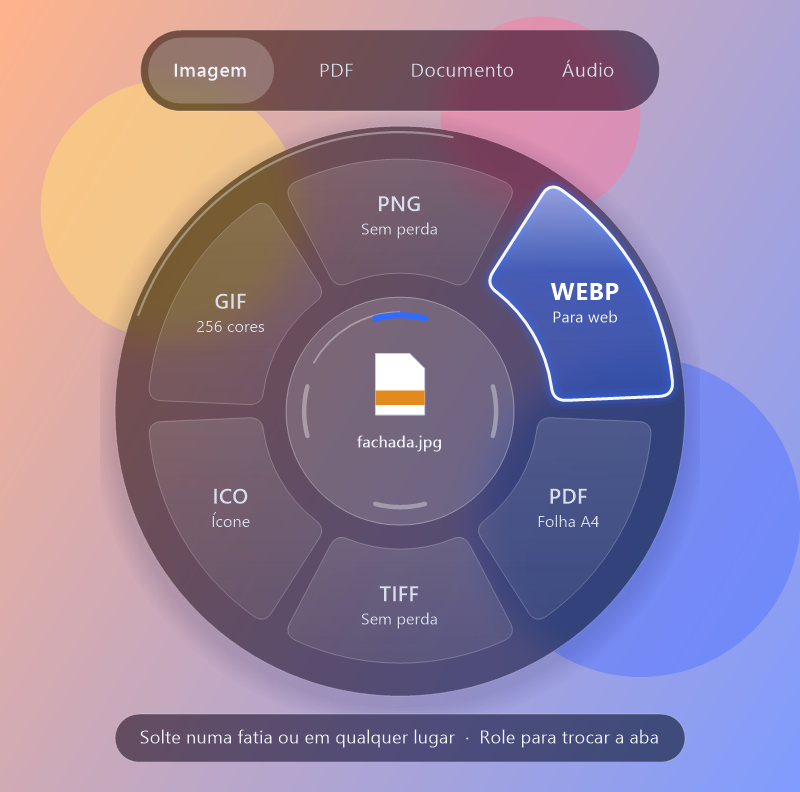
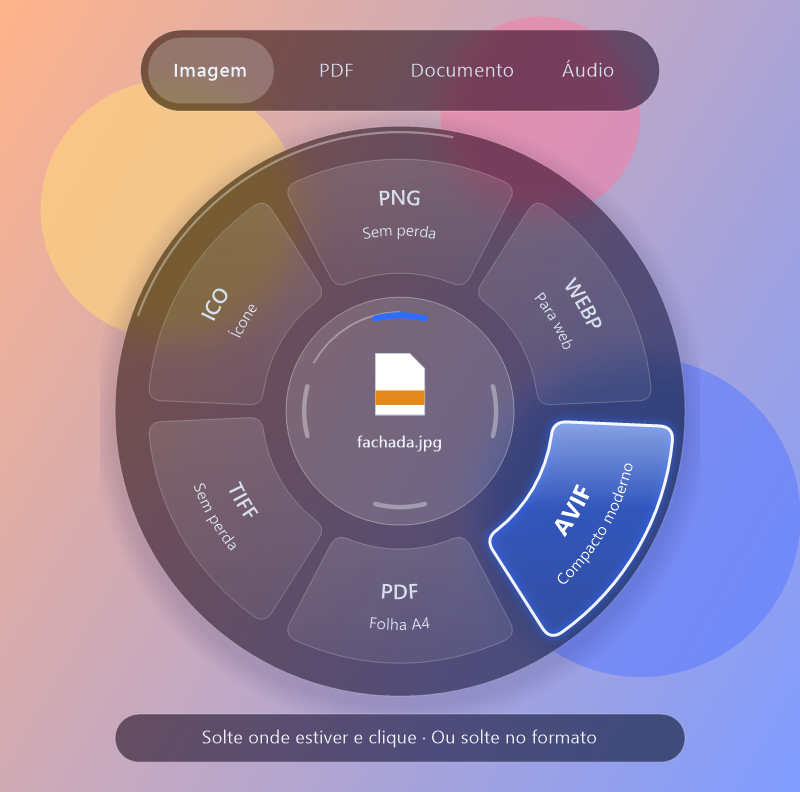
docs: uma página do Dossiê, ideias descartadas e menu atual no README (#35)
* docs: uma página do Dossiê, ideias descartadas e menu atual no README

- docs/design/README.md e docs/dossie/README.md falavam do mesmo
  Dossiê: fica só docs/dossie, com o link do Claude Design.
- docs/ideias-descartadas reúne o que saiu do projeto e por quê, com
  link para o ADR; os ADRs ficam onde estão.
- docs/imagens/menu.png, que não era usada e mostrava o texto reto,
  vira uma captura do menu com o texto curvo, no README.
- Pranchas: texto das fatias decidido (B) e WF-2 com o pulso sem ✓.

* docs: pulso no vidro translúcido na WF-2 e nas ideias descartadas

---------

diff --git a/docs/ideias-descartadas/README.md b/docs/ideias-descartadas/README.md
@@ -1,0 +1,48 @@
+# Ideias descartadas
+
+O que ficou pelo caminho, e por quê. Serve para não voltar a discutir o que já foi decidido e para entender por que o Pizza é como é. O registro completo de cada decisão continua no ADR indicado; os ADRs não saem de [`docs/adr`](../adr/), para que os links antigos sigam funcionando.
+
+Para reabrir uma ideia, crie um ADR novo que substitui o anterior (veja [`docs/adr/README.md`](../adr/README.md)).
+
+## Produto
+
+| Ideia | Por que saiu | Onde |
+| --- | --- | --- |
+| Repositório privado até o v1.0 | O Pizza passou a ser gratuito e de código aberto | [ADR-013](../adr/013-repositorio-privado.md) → [ADR-014](../adr/014-gratuito-gpl.md) |
+| Versão paga, com chave e plano | Gratuito sob GPL-3.0; a aba "Licença" saiu da Configuração | [ADR-014](../adr/014-gratuito-gpl.md) |
+| 15 políticas de TI no v1 | Ficam 7, as essenciais | [ADR-019](../adr/019-simplificacoes-do-v1.md) |
+| Opções "Mostrar dica" e "Cor de destaque" | Extras de interface que ninguém pediu | [ADR-019](../adr/019-simplificacoes-do-v1.md) |
+| "Pausar por 1 hora" e "Sobre" no menu do ícone | Pausar o gesto reverteria uma simplificação; Sobre vai para a Configuração | [ADR-020](../adr/020-menu-do-icone.md) |
+
+## Gesto e menu
+
+| Ideia | Por que saiu | Onde |
+| --- | --- | --- |
+| Hook de teclado para o Esc | Nenhuma captura de teclado (SEC-01); o Esc chega pelo próprio arraste ou pela janela do menu | [ADR-016](../adr/016-esc-sem-hook-de-teclado.md) |
+| Soltar fora do disco cancela | Soltar em qualquer lugar mantém o menu para escolher com um clique, sem precisar mirar | [ADR-025](../adr/025-escolha-por-clique-apos-o-gesto.md) |
+| Fechar a escolha em prazo fixo, ou só depois de 30 s | Fecharia enquanto a pessoa navega no touchpad, ou ocuparia demais uma tela pequena: o prazo é de 10 s sem interação | [ADR-025](../adr/025-escolha-por-clique-apos-o-gesto.md) |
+| Texto das fatias na horizontal com arco leve (versão A) | A descrição longa não cabia nas fatias laterais sem quebrar a linha; ficou a curva completa (B) | [Dossiê](../dossie/README.md#referência--texto-das-fatias) |
+| Marca ✓ na fatia escolhida | A fatia só fica em destaque, no mesmo vidro do hover; o ✓ aparece apenas no aviso de concluído | Pedido do mantenedor em 10/11/2026 |
+| Vidro fosco e escuro na fatia escolhida | Ficou escuro demais; voltou ao vidro translúcido do hover | Pedido do mantenedor em 10/11/2026 |
+
+## Visual
+
+| Ideia | Por que saiu | Onde |
+| --- | --- | --- |
+| Direct2D (Vortice) | Dependências novas, uma em beta | [ADR-023](../adr/023-vidro-gdiplus-desfoque-proprio.md) |
+| Acrylic do Windows (DWM) | Só funciona em janela ativa | [ADR-023](../adr/023-vidro-gdiplus-desfoque-proprio.md) |
+| Composição do Windows (`HostBackdropBrush`) | Desenhou preto na janela do disco | [ADR-023](../adr/023-vidro-gdiplus-desfoque-proprio.md) |
+| Vidro sem desfoque | O fundo nítido compete com as fatias | [ADR-023](../adr/023-vidro-gdiplus-desfoque-proprio.md) |
+| Avisos nativos do Windows (toasts) | Ficam no histórico e são espelhados no celular; viraram janelas próprias | [ADR-018](../adr/018-notificacao-e-painel-proprios.md) |
+
+## Arquitetura e segurança
+
+| Ideia | Por que saiu | Onde |
+| --- | --- | --- |
+| Converter documentos pelo Word (COM) | Arquivo da internet abriria fora do sandbox; no v1, só o LibreOffice isolado | [ADR-019](../adr/019-simplificacoes-do-v1.md) |
+| Worker aquecido e reaproveitado | Um arquivo malicioso alcançaria os próximos; agora é um Worker por arquivo | [ADR-019](../adr/019-simplificacoes-do-v1.md) |
+| Baixar o LibreOffice pelo Pizza | Nenhum download além da atualização | [ADR-019](../adr/019-simplificacoes-do-v1.md) |
+| Pipe com nome, ACL e verificação de PID | Pipes sem nome, entregues só ao Worker, são mais simples e fecham o acesso entre usuários | [ADR-021](../adr/021-pipe-sem-nome.md) |
+| Histórico do painel gravado em disco | Fica só em memória, durante a sessão | [ADR-018](../adr/018-notificacao-e-painel-proprios.md) |
+| PDFsharp para Imagem → PDF | Passou a ser AGPL na versão 6.5.0; o Pizza usa um gerador próprio | [ADR-022](../adr/022-imagem-pdf-gerador-proprio.md) |
+| SharpFuzz para os testes com arquivos corrompidos | Só observa código C#, e quem lê os arquivos é o libvips nativo; há um teste próprio | [SPECS §2.1](../SPECS.md) (TST-03) |

diff --git a/README.md b/README.md
@@ -14,7 +14,7 @@
 
 Conversor de imagens para Windows com menu circular, processamento local e arquivo original preservado.
 
-[Como usar](docs/USO.md) · [Dossiê e design](docs/design/README.md) · [Documentação](docs/README.md) · [Próximas etapas](docs/ROADMAP.md)
+[Como usar](docs/USO.md) · [Dossiê e design](docs/dossie/README.md) · [Documentação](docs/README.md) · [Próximas etapas](docs/ROADMAP.md)
 
 </div>
 
@@ -25,6 +25,8 @@ O Pizza abre um menu de formatos quando você começa a arrastar um arquivo segu
 O projeto está em **prévia de desenvolvimento**. Imagens e Imagem → PDF estão implementados. Operações em PDF, documentos e áudio fazem parte do roteiro. Instaladores assinados e atualização automática ainda não estão disponíveis.
 
 ## Como funciona
+
+<p align="center"><img src="docs/imagens/menu.png" alt="Menu do Pizza aberto sobre um arquivo JPG: abas Imagem, PDF, Documento e Áudio, e seis fatias de formato com o nome e a descrição acompanhando a curva; a fatia AVIF está em destaque" width="440"></p>
 
 1. Abra o Pizza; ele fica na bandeja do Windows.
 2. Segure **Ctrl** e comece a arrastar uma imagem no Explorer ou na área de trabalho.
@@ -102,9 +104,7 @@ Claude e Codex são as ferramentas de IA utilizadas na construção do projeto. 
 
 ## Dossiê e demonstração
 
-O [**Pizza — Dossiê do Projeto**, criado no Claude Design](https://claude.ai/artifact/LMrbTPnaY6EbVK1UPjcVDs#page-dcb81aee8d83), reúne a referência visual do projeto. A [documentação de design](docs/design/README.md) relaciona o artefato ao dossiê em Markdown e às decisões técnicas.
-
-As [pranchas do dossiê](docs/dossie/README.md) também estão disponíveis diretamente neste repositório.
+O [**Pizza — Dossiê do Projeto**, criado no Claude Design](https://claude.ai/artifact/LMrbTPnaY6EbVK1UPjcVDs#page-dcb81aee8d83), reúne a referência visual do projeto. As [pranchas do dossiê](docs/dossie/README.md) também estão neste repositório, sem precisar de login no Claude. O que foi descartado no caminho, e por quê, está em [ideias descartadas](docs/ideias-descartadas/README.md).
 
 Uma demonstração prática em vídeo está planejada e será adicionada quando estiver pronta.
 

diff --git a/docs/PIZZA-PROJETO.md b/docs/PIZZA-PROJETO.md
@@ -1,6 +1,6 @@
 # Pizza — Especificação completa do projeto
 
-> **Atualização — 10/11/2026:** este dossiê preserva o planejamento e decisões históricas. A implementação está em prévia de imagens, e o repositório já é público. Consulte o [roteiro atual](ROADMAP.md) e as emendas da [SPECS](SPECS.md). O gesto permite soltar em qualquer posição e escolher por clique (ADR-025). O [artefato original do Claude Design](design/README.md) está referenciado na documentação.
+> **Atualização — 10/11/2026:** este dossiê preserva o planejamento e decisões históricas. A implementação está em prévia de imagens, e o repositório já é público. Consulte o [roteiro atual](ROADMAP.md) e as emendas da [SPECS](SPECS.md). O gesto permite soltar em qualquer posição e escolher por clique (ADR-025). O [artefato original do Claude Design](dossie/README.md) está referenciado na documentação.
 
 > Conversor de arquivos para Windows que funciona no gesto: **segure Ctrl, arraste o arquivo e solte no formato** num menu circular de vidro. Tudo offline, leve e rápido.
 

diff --git a/docs/dossie/README.md b/docs/dossie/README.md
@@ -1,5 +1,7 @@
 # Dossiê do projeto
 
+**[Abrir o artefato original no Claude Design](https://claude.ai/artifact/LMrbTPnaY6EbVK1UPjcVDs#page-dcb81aee8d83)** (exige login no Claude). As imagens abaixo são as mesmas pranchas, exportadas para quem não usa o Claude. O texto consolidado do planejamento está em [PIZZA-PROJETO.md](../PIZZA-PROJETO.md).
+
 Pranchas do planejamento do Pizza, feitas antes do código, em 08/11/2026 e 09/11/2026. Elas mostram:
 
 - público e posicionamento;
@@ -42,6 +44,12 @@ Pranchas do planejamento do Pizza, feitas antes do código, em 08/11/2026 e 09/1
 ### DES-1 · Sistema visual
 
 ![Sistema visual](des-1-sistema-visual.png)
+
+### Referência · texto das fatias
+
+Decidido em 10/11/2026: **B · Curva completa**. A versão A, sem girar, foi descartada porque a descrição longa não cabia nas fatias laterais sem quebrar a linha.
+
+![Texto das fatias](ref-texto-fatias.png)
 
 ## Arquitetura
 

diff --git a/docs/ROADMAP.md b/docs/ROADMAP.md
@@ -17,7 +17,7 @@ Esta entrega fecha uma prévia do gesto e da conversão de imagens. Não equival
 | Configurações completas e políticas de TI | Planejadas |
 | Instaladores assinados, atualização verificada, SBOM e proveniência de release | Pendentes antes da distribuição estável |
 | Auditoria completa e medições finais de desempenho | Pendentes para a v1.0 |
-| Artefato original do Claude Design | [Referência disponível](design/README.md) |
+| Artefato original do Claude Design | [Referência disponível](dossie/README.md) |
 | Vídeo de aplicação prática | Planejado pelo mantenedor |
 
 Fases e critérios completos estão nas [SPECS](SPECS.md). Artefatos experimentais do CI são builds de desenvolvimento.

diff --git a/docs/README.md b/docs/README.md
@@ -3,7 +3,8 @@
 | Comece por | Conteúdo |
 | --- | --- |
 | [Como usar](USO.md) | Executar a prévia, gesto, opções e solução de problemas |
-| [Dossiê e design](design/README.md) | Artefato do Claude Design, documento consolidado e wireframes |
+| [Dossiê e design](dossie/README.md) | Artefato do Claude Design, pranchas e wireframes |
+| [Ideias descartadas](ideias-descartadas/README.md) | O que ficou pelo caminho, e por quê |
 | [SPECS](SPECS.md) | Requisitos; emendas da §2.1 prevalecem |
 | [Roteiro](ROADMAP.md) | Estado atual e próximas etapas |
 | [ADRs](adr/README.md) | Decisões e razões para as mudanças |
